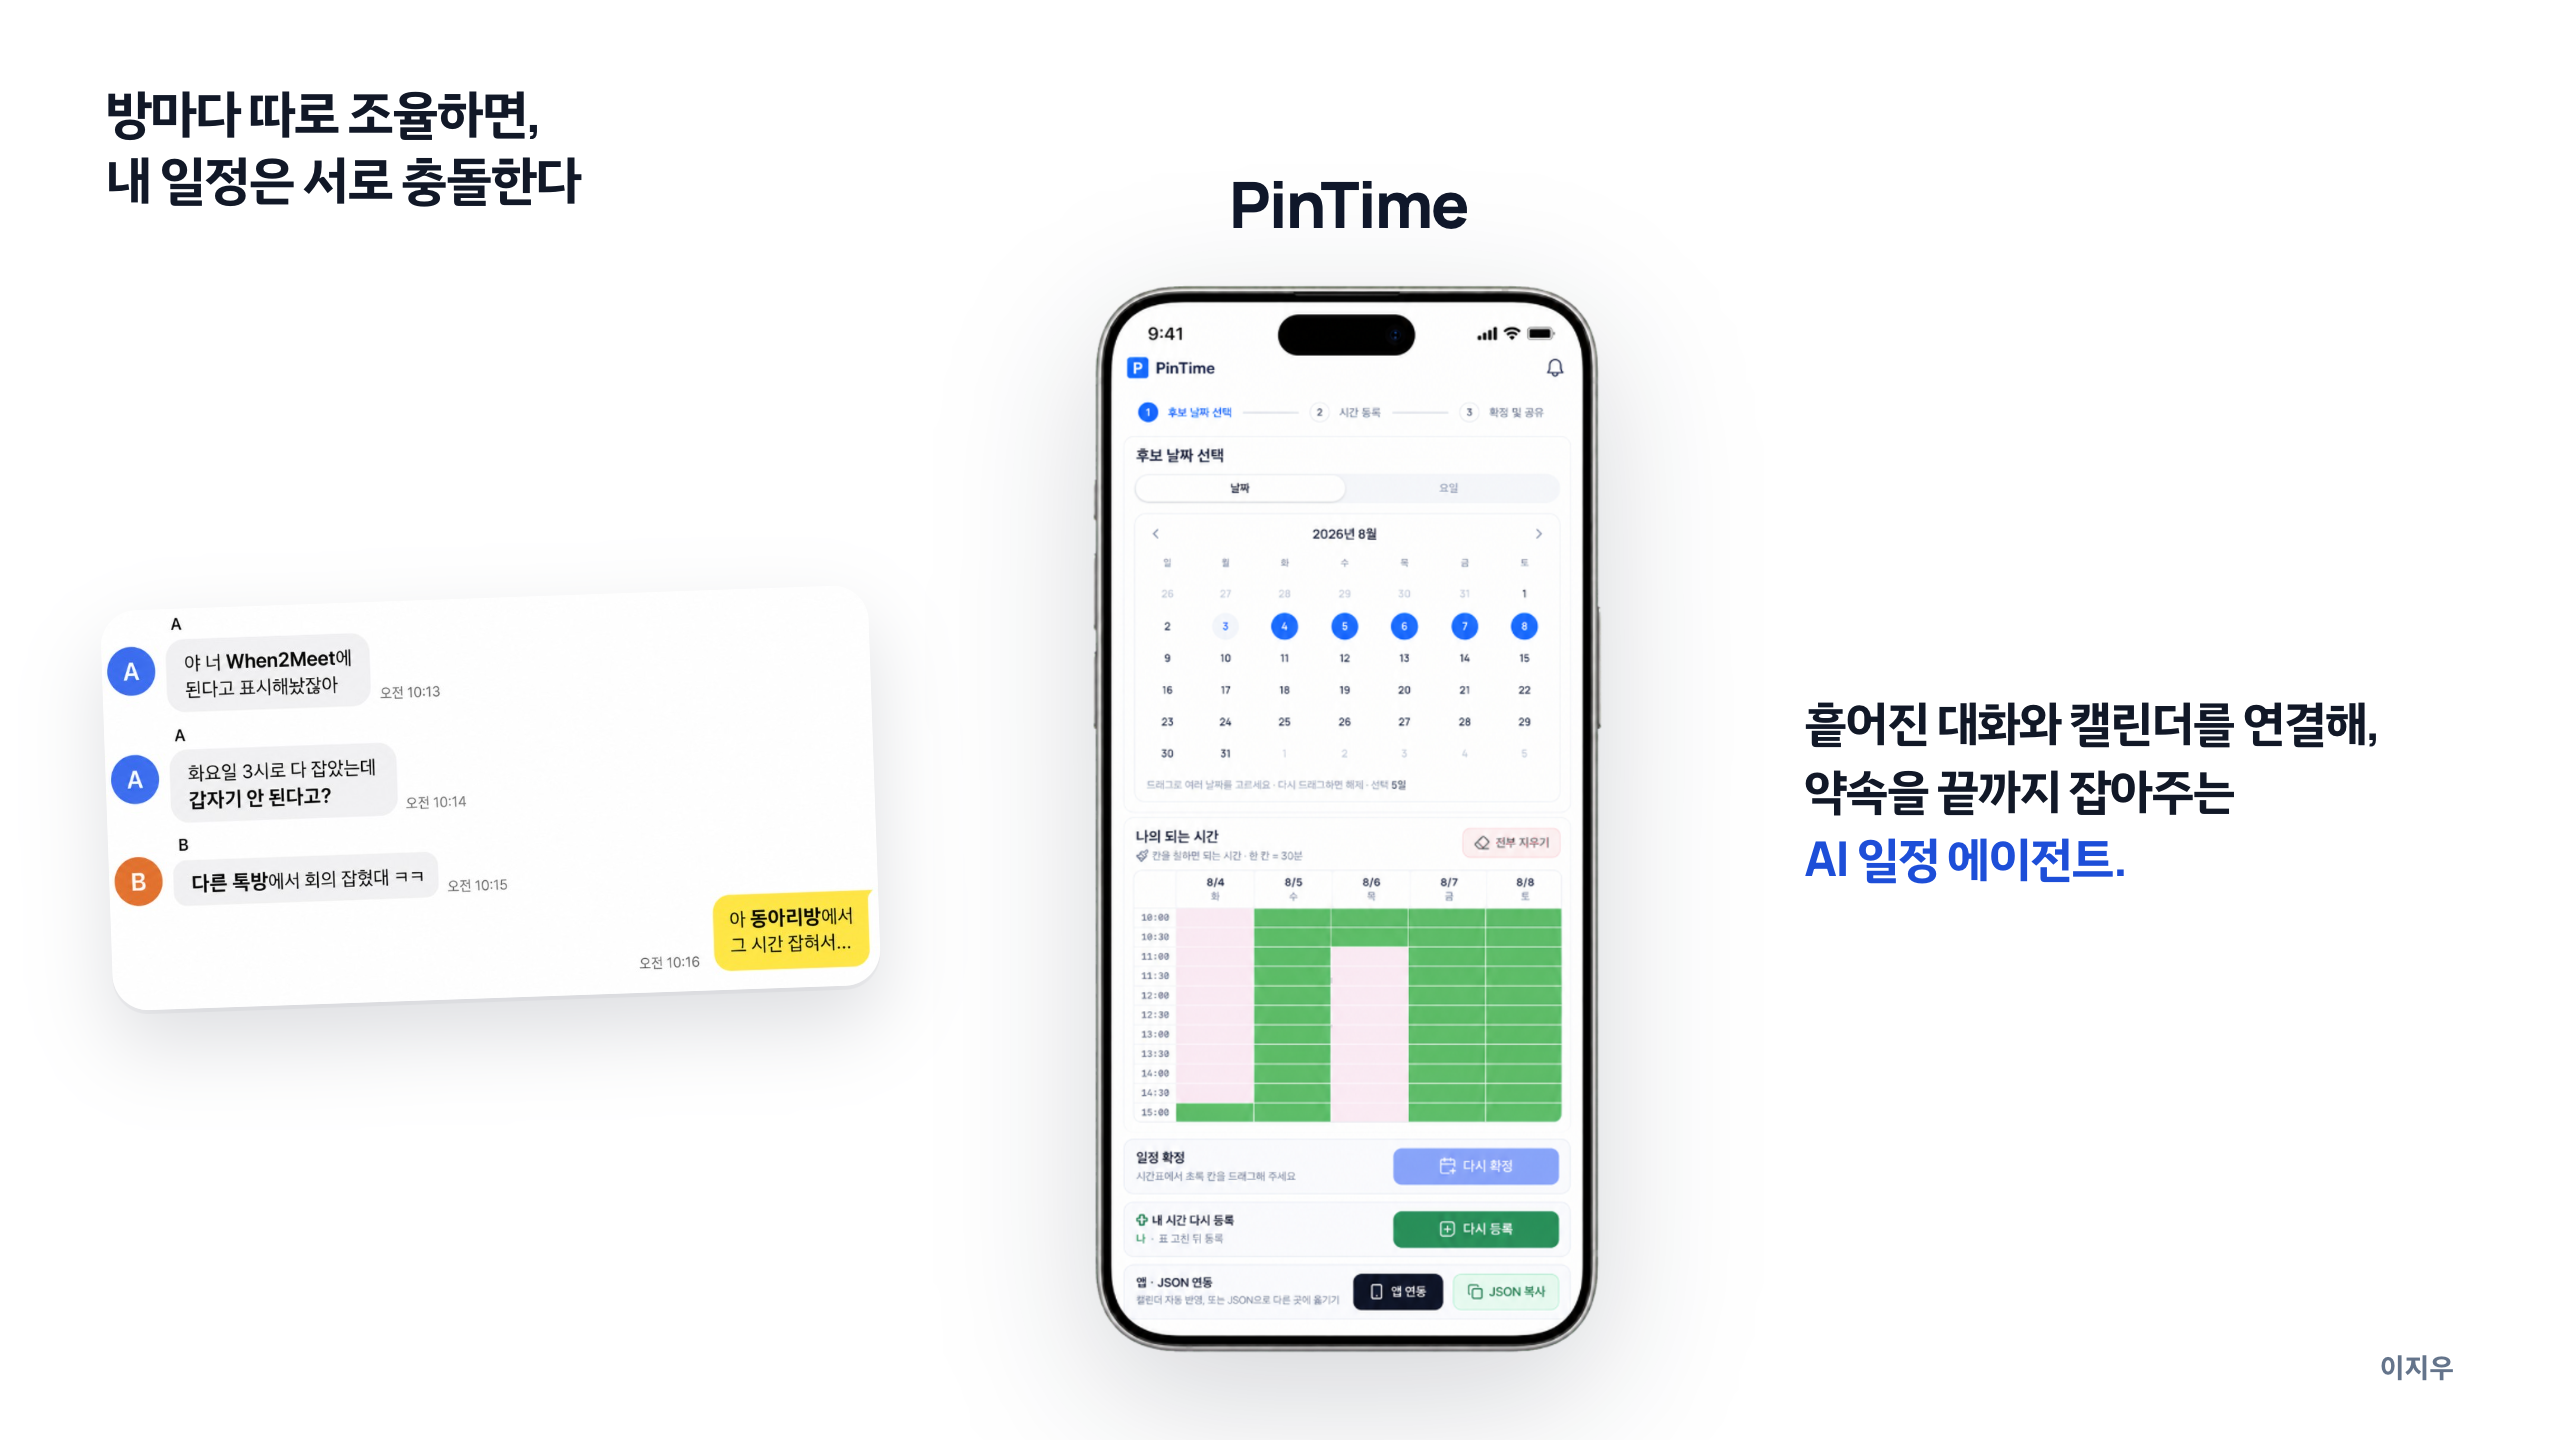
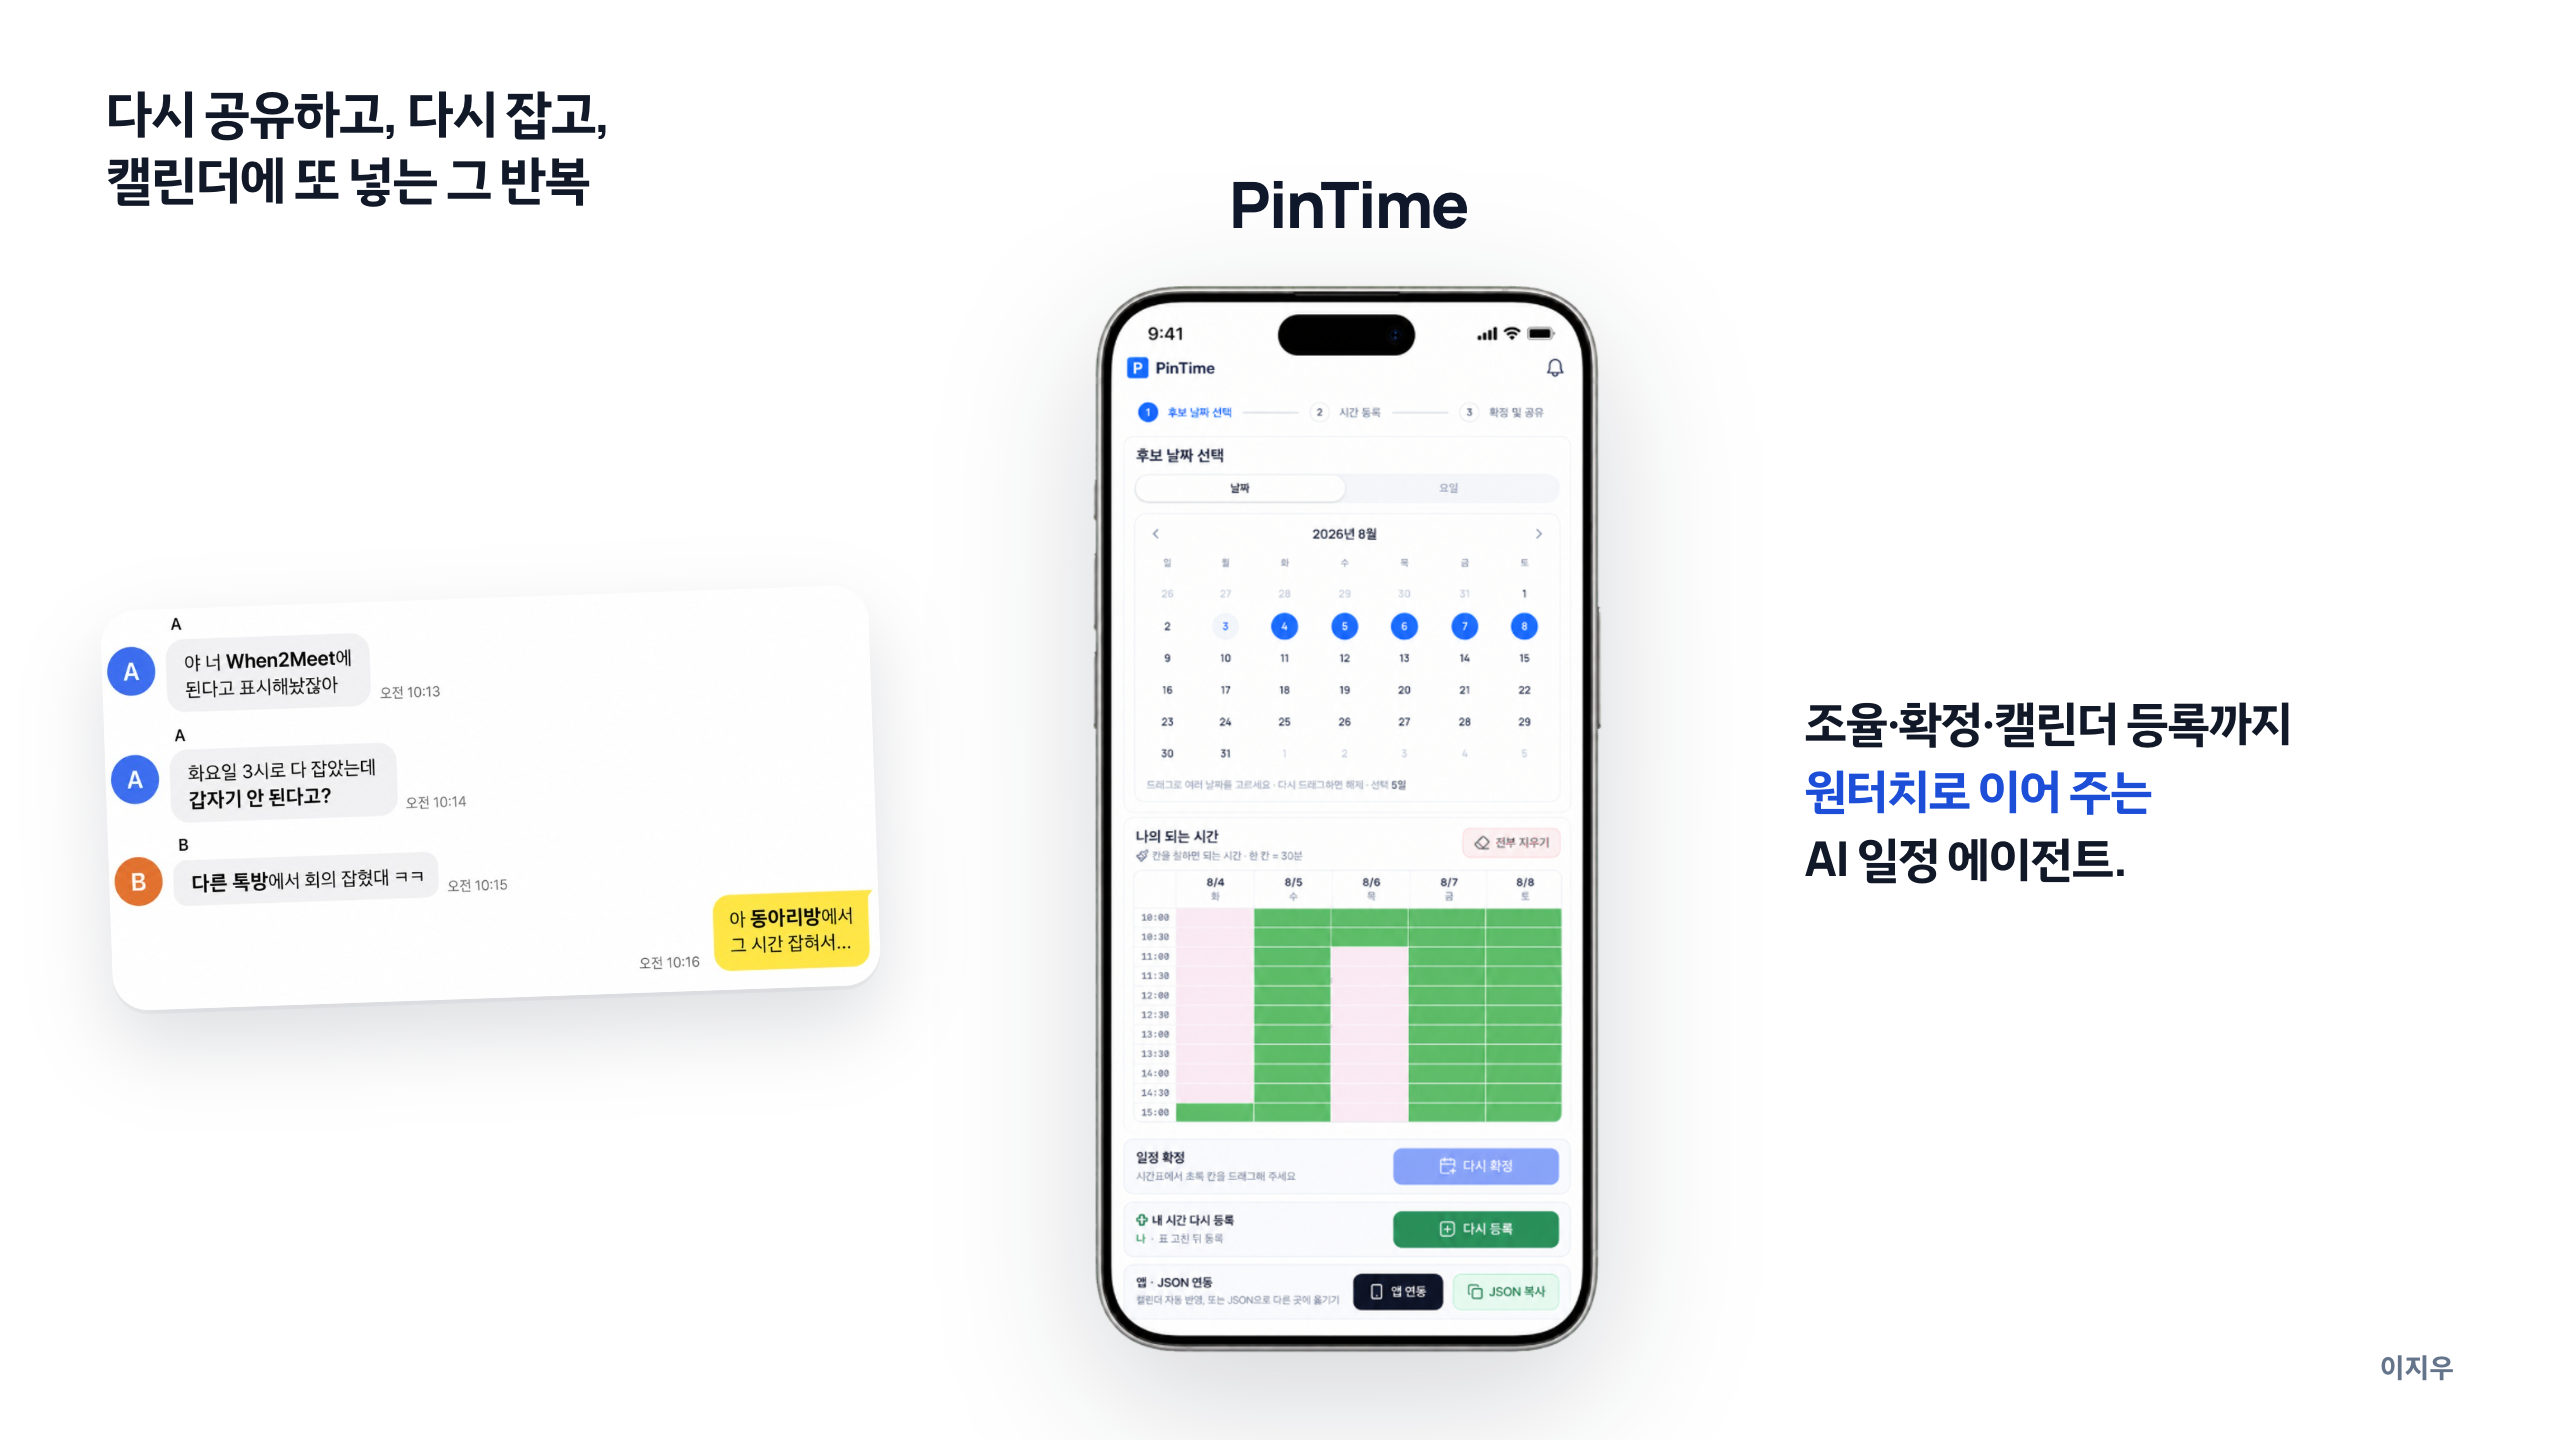
Reframe problem as the re-share, re-coordinate, re-register loop.

Changed region(s): [[0.6875, 0.4688, 0.9375, 0.625], [0.0312, 0.0625, 0.25, 0.1562]]

diff --git a/public/pitch.html b/public/pitch.html
@@ -2154,7 +2154,7 @@
       <section class="slide cover" id="cover">
         <div class="slide-inner">
           <h1 class="cover-problem">
-            방마다 따로 조율하면,<br />내 일정은 서로 충돌한다
+            다시 공유하고, 다시 잡고,<br />캘린더에 또 넣는 그 반복
           </h1>
 
           <div class="cover-stage">
@@ -2176,9 +2176,9 @@
             </div>
 
             <p class="cover-tagline">
-              흩어진 대화와 캘린더를 연결해,<br />
-              약속을 끝까지 잡아주는<br />
-              <span class="ai">AI 일정 에이전트.</span>
+              조율·확정·캘린더 등록까지<br />
+              <span class="ai">원터치로 이어 주는</span><br />
+              AI 일정 에이전트.
             </p>
           </div>
 
@@ -2197,37 +2197,38 @@
           </div>
           <span class="tape">기존 조율 툴의 한계</span>
           <h2 class="slide-title">
-            문제는 입력이 아니라, 일정이 방마다 끊기는 것입니다
+            문제는 한 번의 입력이 아니라, 방마다 반복되는 흐름입니다
           </h2>
           <p class="slide-lead lead-wrap">
-            When2Meet·캘린더 공유 링크는 “한 방의 표”를 채우기엔 편합니다.
-            그런데 팀플·동아리·약속이 동시에 생기면, 톡방마다 새 링크를 만들고
-            같은 가능 시간을 반복 입력해야 합니다. 이미 다른 방에서 잡힌 시간은
-            다음 표에 반영되지 않아, 된다고 칠해둔 칸이 다른 톡에서 다시 충돌합니다.
-            결국 문제는 입력 UI가 아니라, <b style="color:var(--blue)">일정이 방마다 끊겨 서로 기억되지 않는 구조</b>에 있습니다.
+            When2Meet·캘린더 공유 링크는 한 방의 표를 채우기엔 편합니다.
+            하지만 팀플·동아리·약속이 겹치면 톡방마다 일정을 다시 공유하고,
+            다른 방에서 시간이 잡히면 또 조율하고, 확정된 뒤에는 캘린더에 또
+            직접 넣어야 합니다. 충돌 → 재공유 → 재조율 → 재등록이 방마다
+            반복됩니다. 결국 필요한 건 더 예쁜 표가 아니라,
+            <b style="color:var(--blue)">이 흐름을 한 번에 이어 주는 원터치</b>입니다.
           </p>
 
           <div class="problem-flow">
             <div class="problem-step">
               <span class="num">1</span>
-              <h3>톡방마다<br />새 링크 생성</h3>
-              <div class="one-line">10개의 일정 공유 링크</div>
+              <h3>톡방마다<br />다시 공유</h3>
+              <div class="one-line">방마다 링크·가능 시간 재입력</div>
             </div>
             <div class="problem-step">
               <span class="num">2</span>
-              <h3>같은 가능 시간을<br />반복 입력</h3>
-              <div class="one-line">10번의 가능 시간 입력</div>
+              <h3>충돌 나면<br />또 조율</h3>
+              <div class="one-line">다른 톡에 잡히면 처음부터 다시</div>
             </div>
             <div class="problem-step bad">
               <span class="num">3</span>
-              <h3>다른 톡방과<br />일정 충돌</h3>
-              <div class="one-line">10개 이상의 톡방 간 충돌 조정</div>
+              <h3>캘린더에<br />또 등록</h3>
+              <div class="one-line">확정해도 일정 앱에 따로 입력</div>
             </div>
           </div>
 
           <div class="problem-conclude">
-            기존 서비스는 한 번의 조율은 편하게 만들지만,<br />
-            <b style="color:var(--blue)">여러 약속 사이의 관계는 기억하지 못합니다.</b>
+            기존 서비스는 한 방의 조율만 돕고,<br />
+            <b style="color:var(--blue)">공유 → 확정 → 캘린더까지 이어지는 반복은 끊지 못합니다.</b>
           </div>
           <div class="slide-name">이지우</div>
         </div>
